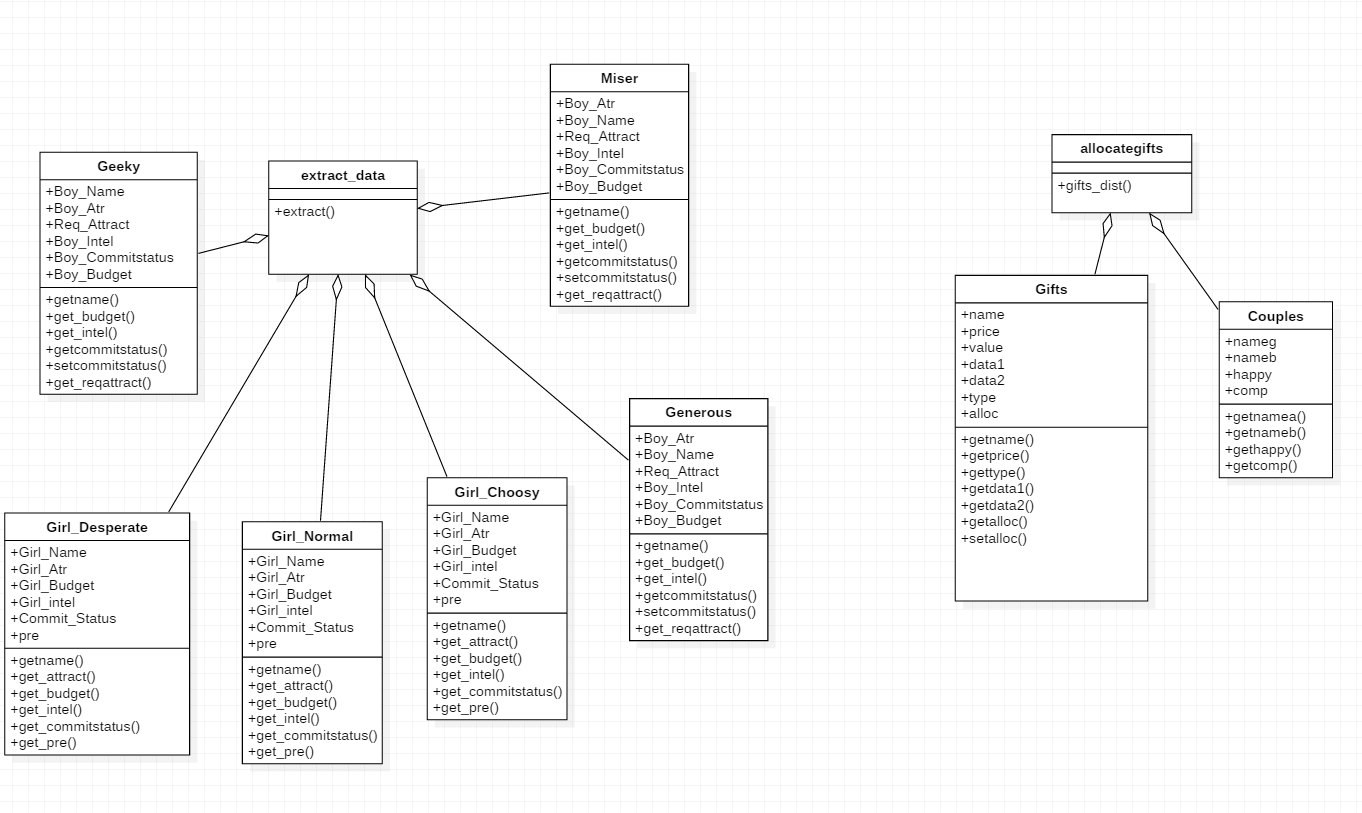
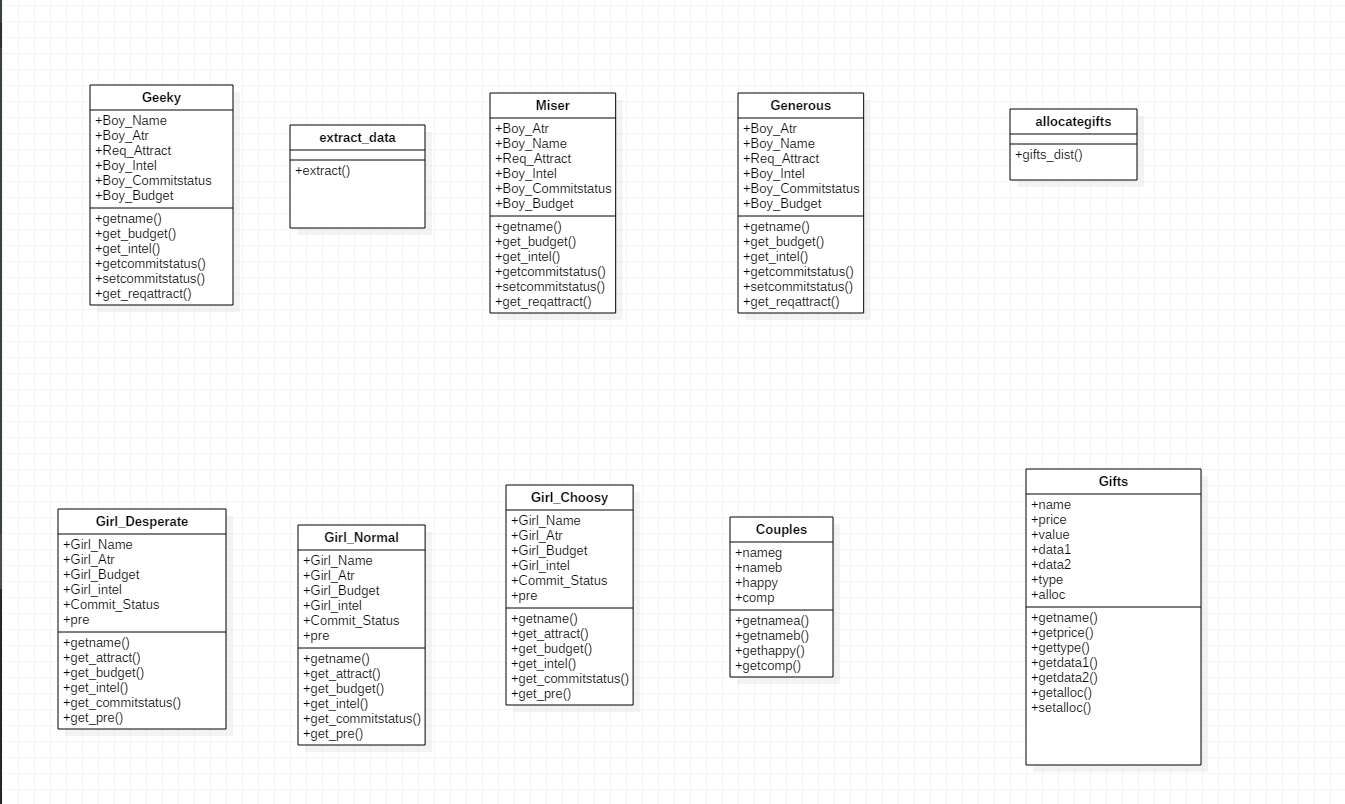
class diagram updated && readme updated

diff --git a/README.md b/README.md
@@ -8,7 +8,7 @@
 
 #OVERVIEW
 
-Implemented question 1 and question 2 in c++.
+Implemented question 1 and question 2 in c++ without inheritance.
 
 #TOOLS USED:
 
@@ -46,7 +46,14 @@ To generate gift data compile and run
 
 #DOCUMENTATION:
 
-###doc1 contains documentation for question 1
+###doc1 contains documentation for question 1.
 
-###doc2 contains documentation for question 2
+###doc2 contains documentation for question 2.
  
+#CLASS DIAGRAM:
+
+###classdiagram.jpeg contains image of class diagram.
+
+#EXTRAS:
+
+###log.csv contains gift exchange data(timestamp, girl name, boy name, gift name)
